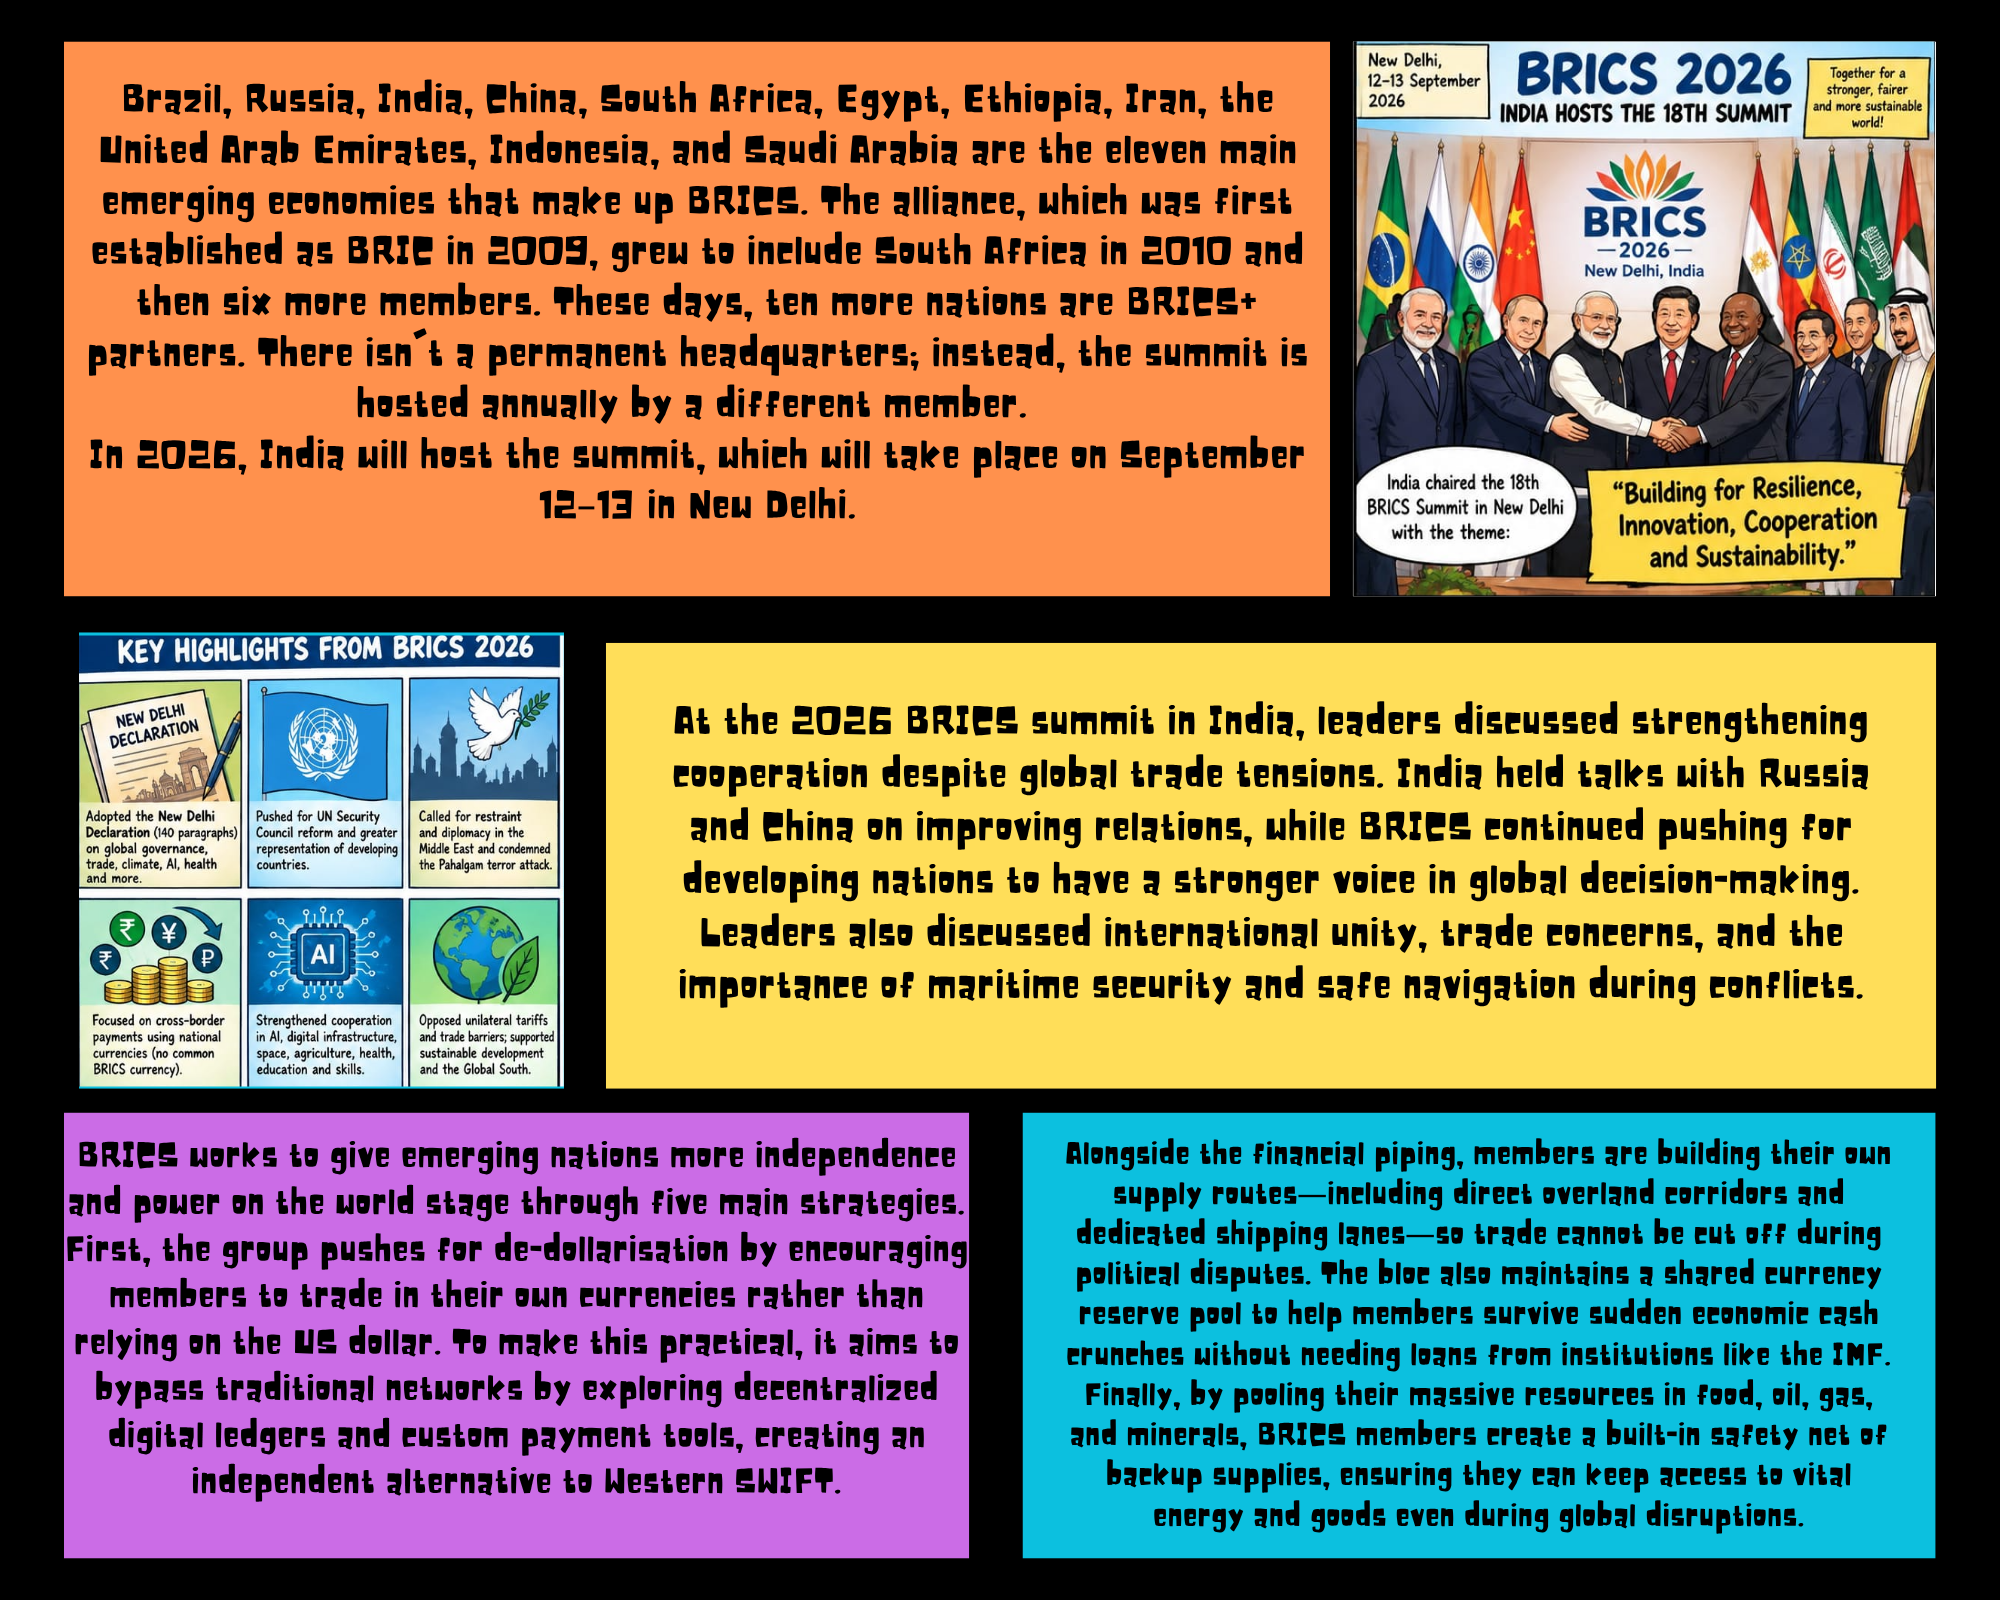
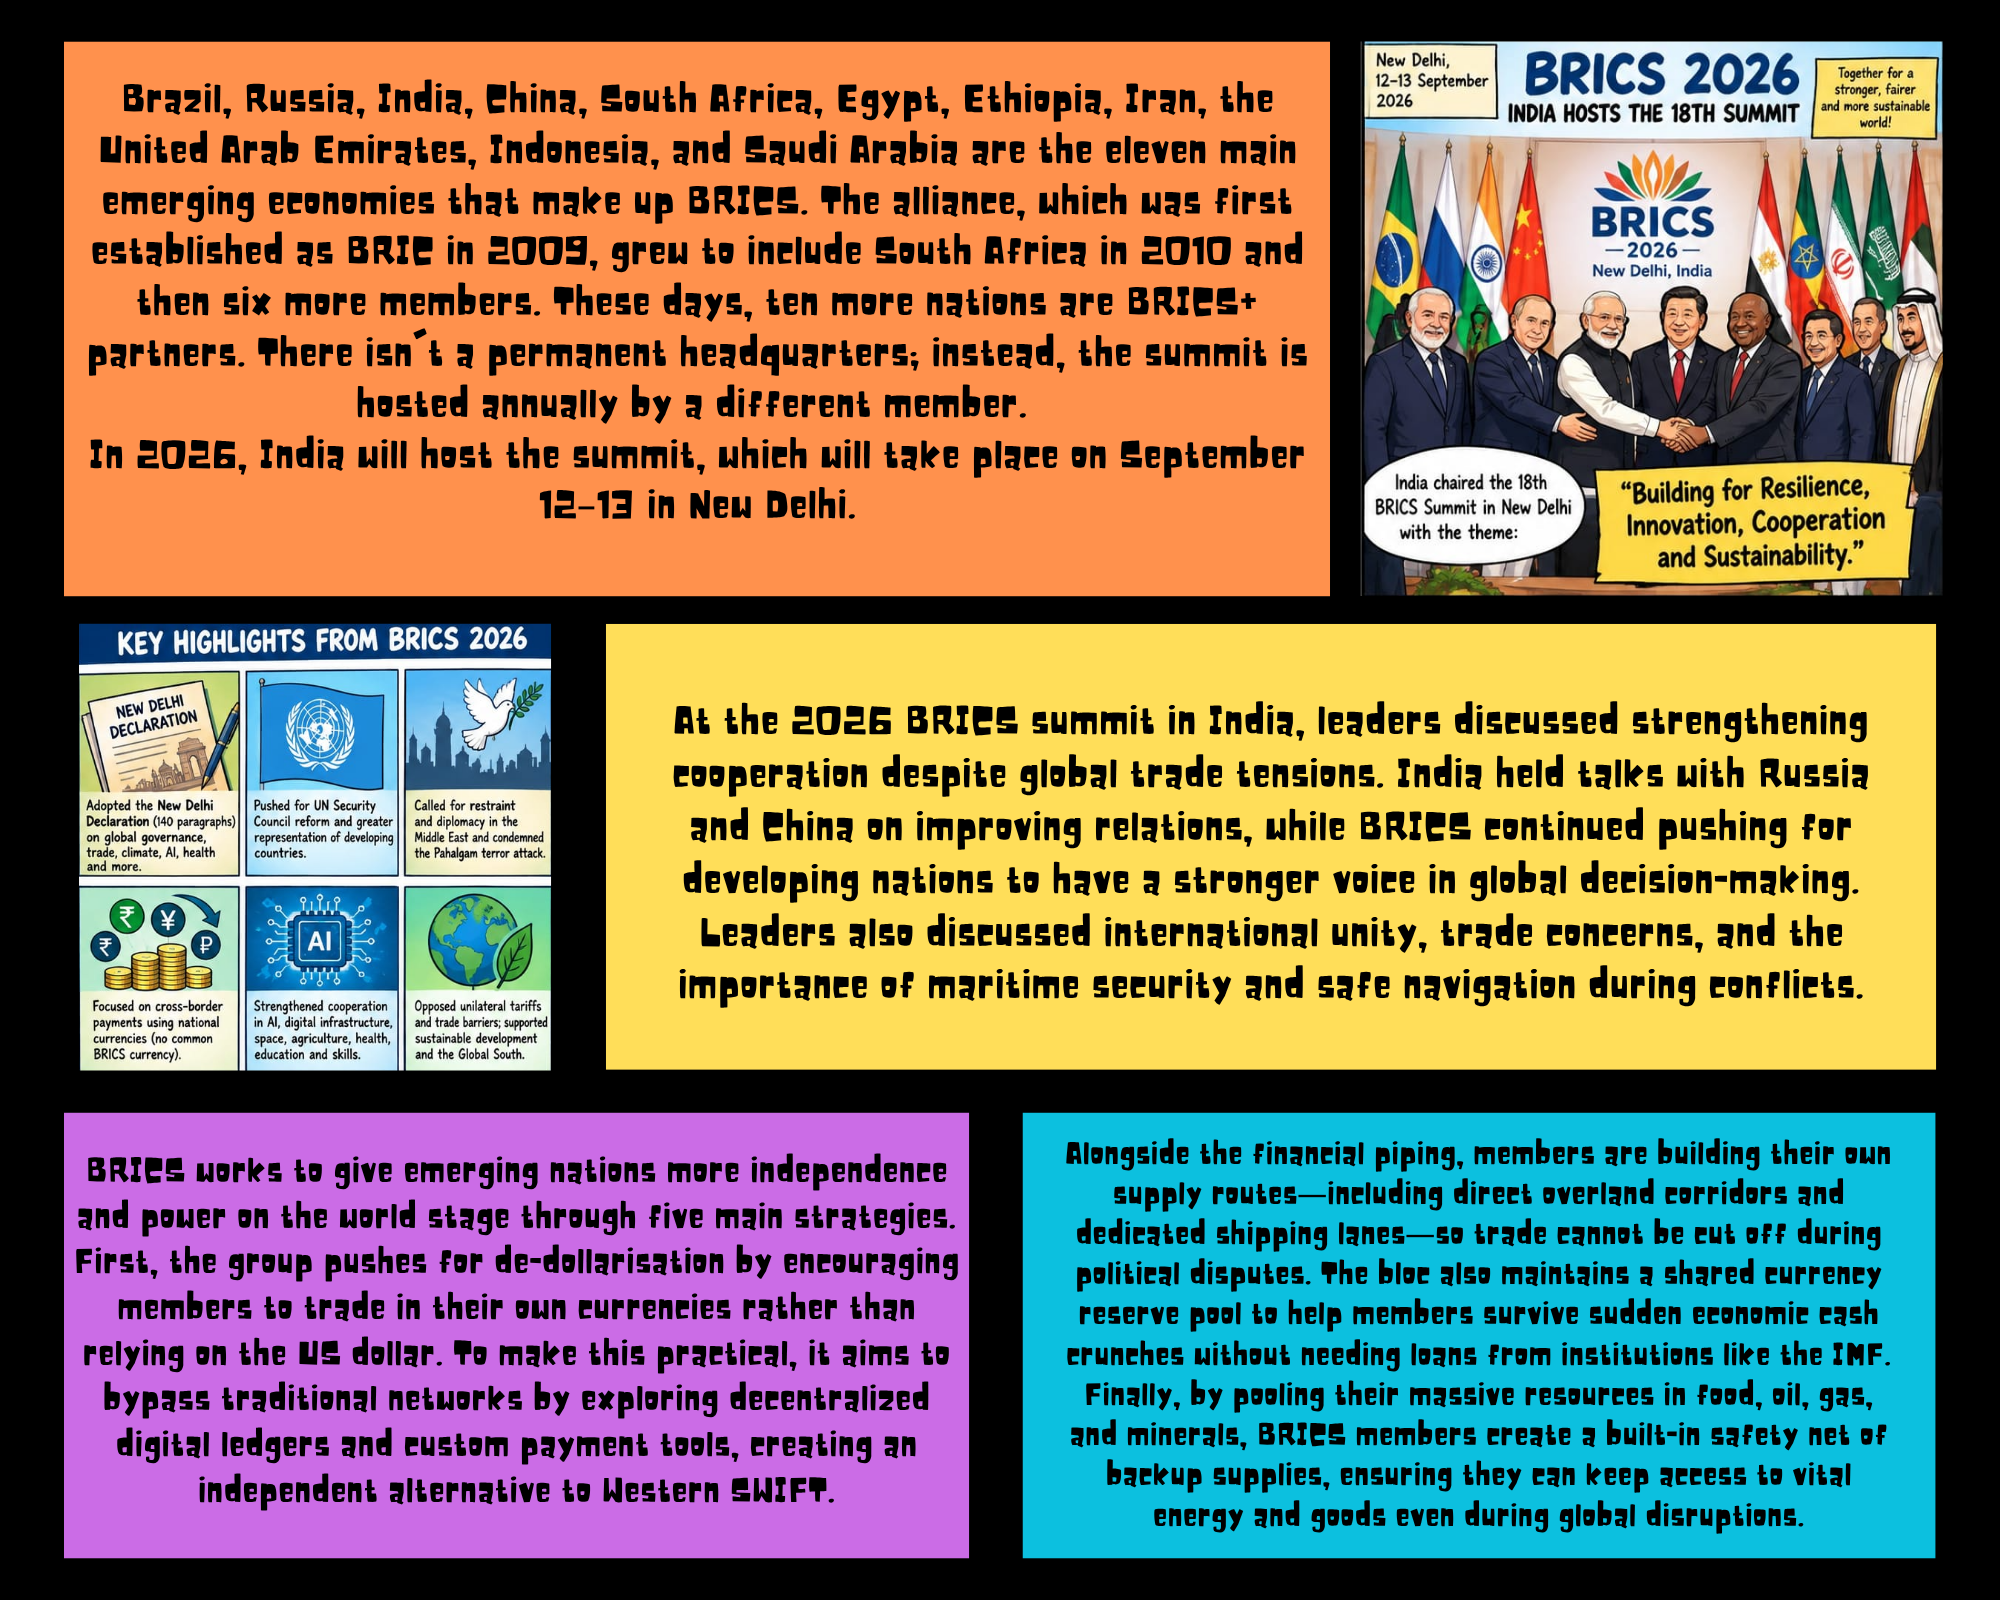
Update Issue 01 art and re-crop fullscreen comic panels
1.png/2.png were redrawn slightly; re-measured PAGE_DATA rects for
the mobile fullscreen viewer against the new 1.png so panels crop
correctly again.

Changed region(s): [[0.031, 0.0312, 0.992, 0.9375]]

diff --git a/index.html b/index.html
@@ -1390,11 +1390,11 @@
     '1.png': { w: 2000, h: 1600, pages: [
       [
         { type: 'text', x: 0, y: 0, w: 1330, h: 597 },
-        { type: 'image', x: 1356, y: 0, w: 644, h: 597 }
+        { type: 'image', x: 1360, y: 0, w: 640, h: 597 }
       ],
       [
-        { type: 'text', x: 606, y: 632, w: 1394, h: 457 },
-        { type: 'image', x: 0, y: 632, w: 564, h: 457 }
+        { type: 'text', x: 606, y: 623, w: 1394, h: 448 },
+        { type: 'image', x: 0, y: 623, w: 552, h: 448 }
       ],
       [
         { type: 'text', x: 0, y: 1112, w: 969, h: 488 },
